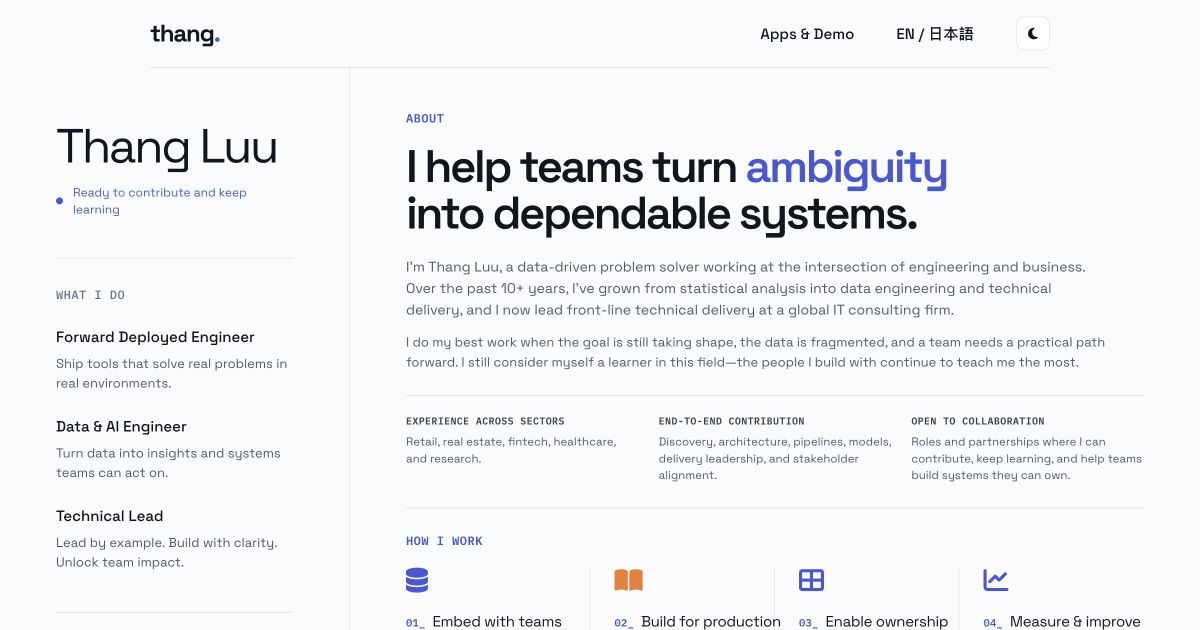
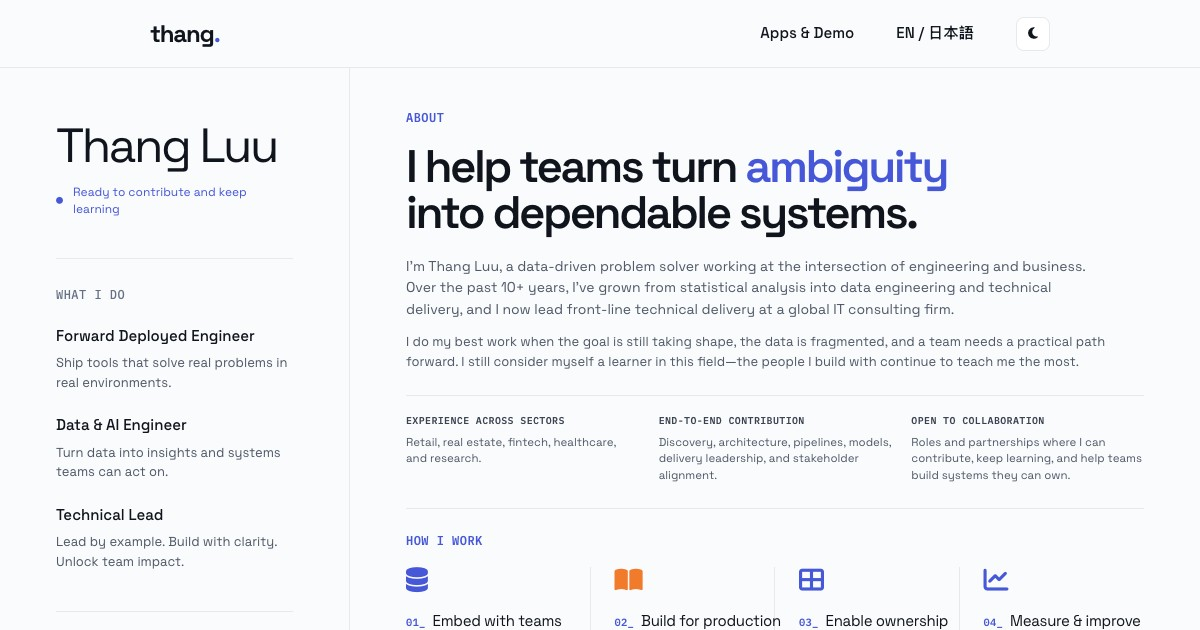
fix(header): keep sticky backdrop full width [skip ci]

diff --git a/apps/index.html b/apps/index.html
@@ -85,16 +85,16 @@
     .theme-button{display:grid;place-items:center;cursor:pointer}.ac-icon i{font-size:1rem}.sr-only{position:absolute;width:1px;height:1px;padding:0;margin:-1px;overflow:hidden;clip:rect(0,0,0,0);white-space:nowrap;border:0}
     .skip-link{position:fixed;left:12px;top:-60px;z-index:99;background:var(--ink);color:var(--bg);padding:10px}.skip-link:focus{top:12px}
     .wrap{width:min(1328px,calc(100% - 96px))}.apps-main{padding-top:54px}.apps-intro{display:grid;grid-template-columns:minmax(0,.8fr) minmax(360px,1.2fr);gap:72px;align-items:end;margin-bottom:40px}.apps-intro .eyebrow{grid-column:1/-1;margin-bottom:-52px}.apps-intro h1{font-size:clamp(42px,4vw,58px);line-height:1.02;letter-spacing:-.045em;margin:0}.apps-intro .lead{margin:0;white-space:normal;font-size:16px;line-height:1.55;max-width:720px}.apps-nav{height:68px;padding:0 56px}.apps-brand{font:700 24px var(--font-sans);letter-spacing:-.05em}.apps-brand span{display:none}.apps-nav nav{gap:38px;color:var(--ink);font-size:15px}.apps-nav nav a:first-child{color:var(--accent)}.theme-button{width:34px;height:34px;border-radius:8px;background:var(--surface)}
-    .apps-nav,.site-foot{width:75%;margin-inline:auto}.apps-nav{padding-inline:0}.site-foot{padding-inline:0}
+    .apps-nav{display:block;width:100%;margin:0;padding:0}.apps-nav-inner{display:flex;align-items:center;justify-content:space-between;width:75%;height:100%;margin-inline:auto}.site-foot{width:100%;margin-inline:0;padding-inline:0}.site-foot-inner{width:75%;margin-inline:auto}
     .catalog-controls{display:flex;align-items:center;margin-bottom:36px;padding:20px 0;border-top:1px solid var(--border);border-bottom:1px solid var(--border)}.filters{margin:0;gap:8px;justify-content:flex-start}.filter{border-radius:5px;padding:9px 13px}.filter.active{background:var(--accent);border-color:var(--accent);color:#fff}
     .apps-cat{margin-top:48px}.apps-cat-head{margin-bottom:0;padding:0 0 13px}.apps-grid{grid-template-columns:repeat(3,minmax(0,1fr));gap:0;border-bottom:1px solid var(--border)}.app-card{min-height:280px;padding:24px;border-radius:0;border-width:1px 1px 0 0}.app-card[hidden]{display:none}.app-card:nth-child(3n){border-right:0}.app-card .ac-icon{border-radius:6px}.app-card .ac-tags{margin-top:18px}.app-card .ac-tag{background:transparent}.app-card .ac-open{margin-top:20px}
     @media(max-width:960px){.apps-intro{grid-template-columns:1fr;gap:20px}.apps-intro .eyebrow{grid-column:auto;margin-bottom:0}.apps-grid{grid-template-columns:repeat(2,minmax(0,1fr))}.app-card:nth-child(3n){border-right:1px solid var(--border)}.app-card:nth-child(2n){border-right:0}}
-    @media(max-width:640px){.apps-nav,.site-foot{width:calc(100% - 32px)}.apps-nav{height:65px;padding:0}.apps-brand{font-size:22px}.apps-nav nav{gap:10px;font-size:13px}.apps-nav nav a{display:block}.theme-button{width:32px;height:32px}.wrap{width:calc(100% - 48px)}.apps-main{padding-top:40px}.apps-intro h1{font-size:40px}.catalog-controls{padding-top:16px}.filters{flex-wrap:nowrap;overflow-x:auto;padding-bottom:5px}.filter{flex:0 0 auto}.apps-grid{grid-template-columns:1fr}.app-card,.app-card:nth-child(3n){border-right:0;min-height:0}}
+    @media(max-width:640px){.apps-nav-inner,.site-foot-inner{width:calc(100% - 32px)}.apps-nav{height:65px;padding:0}.apps-brand{font-size:22px}.apps-nav nav{gap:10px;font-size:13px}.apps-nav nav a{display:block}.theme-button{width:32px;height:32px}.wrap{width:calc(100% - 48px)}.apps-main{padding-top:40px}.apps-intro h1{font-size:40px}.catalog-controls{padding-top:16px}.filters{flex-wrap:nowrap;overflow-x:auto;padding-bottom:5px}.filter{flex:0 0 auto}.apps-grid{grid-template-columns:1fr}.app-card,.app-card:nth-child(3n){border-right:0;min-height:0}}
   </style>
 </head>
 <body>
   <a class="skip-link" href="#main">Skip to apps</a>
-  <header class="apps-nav"><a class="apps-brand" href="/">thang<b>.</b> <span>/ demos</span></a><nav><a href="/apps/" aria-current="page">Apps &amp; Demo</a><a href="/ja/">EN / 日本語</a><button class="theme-button" id="themeToggle" aria-label="Switch to light theme"><i class="fa-solid fa-sun" aria-hidden="true"></i></button></nav></header>
+  <header class="apps-nav"><div class="apps-nav-inner"><a class="apps-brand" href="/">thang<b>.</b> <span>/ demos</span></a><nav><a href="/apps/" aria-current="page">Apps &amp; Demo</a><a href="/ja/">EN / 日本語</a><button class="theme-button" id="themeToggle" aria-label="Switch to light theme"><i class="fa-solid fa-sun" aria-hidden="true"></i></button></nav></div></header>
   <main class="wrap apps-main" id="main">
     <section class="apps-intro">
       <span class="eyebrow">Applied work &amp; experiments</span>
@@ -360,7 +360,7 @@
 
   </main>
 
-  <footer class="site-foot">Crafted with love © 2026 — <span>stay steadfast, stay free</span></footer>
+  <footer class="site-foot"><div class="site-foot-inner">Crafted with love © 2026 — <span>stay steadfast, stay free</span></div></footer>
 
   <script>
     (function () {

diff --git a/css/styles.css b/css/styles.css
@@ -114,7 +114,8 @@
 
 /* Portfolio v3 — split-profile online resume */
 .resume-home{background:var(--bg)}
-.resume-home .home-header{width:75%;margin-inline:auto;padding-inline:0}
+.resume-home .home-header{display:block;width:100%;margin:0;padding:0}
+.resume-home .header-inner{position:relative;display:flex;align-items:center;justify-content:space-between;width:75%;height:100%;margin-inline:auto}
 .resume-home .resume-layout{display:grid;grid-template-columns:350px minmax(0,1fr);max-width:1600px;margin:0 auto;border-bottom:1px solid var(--border)}
 .resume-home .resume-kicker{margin:0;color:var(--accent);font:600 12px/1.4 var(--font-mono);letter-spacing:.04em;text-transform:uppercase}
 .resume-home .resume-profile{padding:54px 56px 44px;border-right:1px solid var(--border)}
@@ -152,7 +153,8 @@
 .resume-home .project-group,.resume-home .resume-project{min-width:0;padding:14px 20px;border-right:1px solid var(--border)}.resume-home .project-group{display:flex;align-items:flex-start;gap:14px;padding-left:0}.resume-home .project-group>i{margin-top:3px;color:var(--accent);font-size:20px}.resume-home .language-row .project-group>i{color:#f27a2b}
 .resume-home .project-group h3,.resume-home .resume-project h3{margin:0;font-size:13px;font-weight:500}.resume-home .project-group p,.resume-home .resume-project p{margin:4px 0 0;color:var(--body);font-size:10.5px;line-height:1.4}
 .resume-home .resume-project{position:relative;padding-right:38px;transition:background .2s}.resume-home .resume-project:hover{background:var(--surface);color:var(--ink)}.resume-home .resume-project>i{position:absolute;right:18px;top:22px;font-size:11px;transition:transform .2s}.resume-home .resume-project:hover>i{transform:translateX(3px)}
-.resume-home footer{width:75%;max-width:1200px;margin:0 auto;padding-inline:0}
+.resume-home footer{width:100%;max-width:none;margin:0;padding:20px 0}
+.resume-home .footer-inner{width:75%;margin-inline:auto}
 @media(max-width:1100px){
   .resume-home .resume-layout{grid-template-columns:280px minmax(0,1fr)}
   .resume-home .resume-profile{padding-inline:34px}.resume-home .resume-content{padding-inline:38px}
@@ -160,7 +162,7 @@
   .resume-home .project-row{grid-template-columns:150px repeat(3,minmax(0,1fr))}.resume-home .project-group,.resume-home .resume-project{padding-inline:14px}.resume-home .resume-project{padding-right:30px}
 }
 @media(max-width:780px){
-  .resume-home .home-header,.resume-home footer{width:calc(100% - 32px)}
+  .resume-home .header-inner,.resume-home .footer-inner{width:calc(100% - 32px)}
   .resume-home .resume-layout{grid-template-columns:1fr}
   .resume-home .resume-profile{display:grid;grid-template-columns:1fr 1fr;gap:22px 30px;padding:38px var(--home-pad);border-right:0;border-bottom:1px solid var(--border)}
   .resume-home .resume-profile>h1{grid-column:1/-1;margin-block:0}

diff --git a/index.html b/index.html
@@ -19,19 +19,21 @@
   <link href="https://use.fontawesome.com/releases/v6.4.2/css/all.css" rel="stylesheet">
   <link rel="stylesheet" href="css/reset.css">
   <link rel="stylesheet" href="css/tokens.css?v=20260713e">
-  <link rel="stylesheet" href="css/styles.css?v=20260714c">
+  <link rel="stylesheet" href="css/styles.css?v=20260714d">
   <script>document.documentElement.dataset.theme=localStorage.theme||(matchMedia('(prefers-color-scheme:dark)').matches?'dark':'light')</script>
 </head>
 <body class="home-v2 resume-home">
   <a class="skip" href="#main">Skip to content</a>
   <header class="home-header" id="top">
-    <a class="logo" href="#top" aria-label="Thang Luu home">thang<span>.</span></a>
-    <button class="menu" aria-label="Open menu" aria-expanded="false" aria-controls="primaryNav">Menu</button>
-    <nav id="primaryNav" aria-label="Primary navigation">
-      <a href="apps/">Apps &amp; Demo</a>
-      <a href="ja/" class="lang-link">EN / 日本語</a>
-      <button id="themeToggle" class="theme" aria-label="Switch to light theme"><i class="fa-solid fa-sun" aria-hidden="true"></i></button>
-    </nav>
+    <div class="header-inner">
+      <a class="logo" href="#top" aria-label="Thang Luu home">thang<span>.</span></a>
+      <button class="menu" aria-label="Open menu" aria-expanded="false" aria-controls="primaryNav">Menu</button>
+      <nav id="primaryNav" aria-label="Primary navigation">
+        <a href="apps/">Apps &amp; Demo</a>
+        <a href="ja/" class="lang-link">EN / 日本語</a>
+        <button id="themeToggle" class="theme" aria-label="Switch to light theme"><i class="fa-solid fa-sun" aria-hidden="true"></i></button>
+      </nav>
+    </div>
   </header>
 
   <main id="main" class="resume-layout">
@@ -107,7 +109,7 @@
     </div>
   </main>
 
-  <footer>Crafted with love © 2026 — <span>stay steadfast, stay free</span></footer>
+  <footer><div class="footer-inner">Crafted with love © 2026 — <span>stay steadfast, stay free</span></div></footer>
   <script src="js/main.js?v=20260713f"></script>
 </body>
 </html>

diff --git a/design-qa.md b/design-qa.md
@@ -9,6 +9,8 @@
 - Apps implementation: `/Users/thang/Documents/thangldw.github.io/audit/resume-v3/apps-header-75-desktop.png`
 - Apps comparison: `/Users/thang/Documents/thangldw.github.io/audit/resume-v3/apps-copy-comparison.jpg`
 - Header-width comparisons: `/Users/thang/Documents/thangldw.github.io/audit/resume-v3/home-header-75-comparison.jpg` and `/Users/thang/Documents/thangldw.github.io/audit/resume-v3/apps-header-75-comparison.jpg`
+- Reported sticky-header defect: `/Users/thang/Documents/thangldw.github.io/audit/resume-v3/user-header-overlap-bug.png`
+- Sticky-header fix evidence: `/Users/thang/Documents/thangldw.github.io/audit/resume-v3/home-header-inner-75-scrolled.png` and `/Users/thang/Documents/thangldw.github.io/audit/resume-v3/header-overlap-fix-comparison.jpg`
 - Responsive evidence: `/Users/thang/Documents/thangldw.github.io/audit/resume-v3/home-four-step-laptop-1024.png`, `/Users/thang/Documents/thangldw.github.io/audit/resume-v3/home-header-75-mobile-390.png`, and `/Users/thang/Documents/thangldw.github.io/audit/resume-v3/apps-header-75-mobile-390.png`
 - Viewports: 1440 × 1024 desktop, 1024 × 900 laptop, and 390 × 844 mobile
 - State: light theme; Home default; Apps All, Technical, and Language filters
@@ -21,12 +23,12 @@
 - `How I Work` now covers Embed, Build, Enable, and Measure/Improve. All four numbered titles render as single-line phrases at 1440px, 1024px, and 390px.
 - Apps removes the unused search path and replaces catalog-first copy with a professional description of applied work, feedback, and collaboration. Technical and Language remain durable top-level filters.
 - The RAGOps card now says `Open RAGOps` and points directly to `https://thangldw.github.io/ragops/`.
-- Home and Apps header/footer bands measure exactly 1080px in a 1440px viewport (75%) and are centered at x=180px. Mobile uses 358px in a 390px viewport to preserve usable navigation space.
+- Home and Apps sticky header backdrops now span the full 1440px viewport, while their inner content and footer content measure exactly 1080px (75%) and are centered at x=180px. Mobile inner content uses 358px in a 390px viewport to preserve usable navigation space.
 
 ## Required fidelity surfaces
 
 - Fonts and typography: Space Grotesk and IBM Plex Mono remain consistent. The revised headline retains the selected concept's two-line scale and accent treatment. All method titles avoid wrapping at tested breakpoints.
-- Spacing and layout rhythm: Home uses four equal method columns on desktop, a 2×2 laptop grid, and a single mobile column. Apps gains a cleaner filter-only control row after search removal. Header/footer widths now follow the requested centered 75% desktop measure with a mobile usability override.
+- Spacing and layout rhythm: Home uses four equal method columns on desktop, a 2×2 laptop grid, and a single mobile column. Apps gains a cleaner filter-only control row after search removal. Header/footer content follows the requested centered 75% desktop measure, while the sticky backdrop remains full-width so scrolled content cannot overlap the logo.
 - Colors and visual tokens: the established neutral, indigo, and orange system is unchanged. Language bullets use one subtle indigo because they do not represent different semantic categories.
 - Image quality and asset fidelity: no photographic assets are required; Font Awesome provides all interface icons. Social previews are real 1200 × 630 browser captures.
 - Copy and content: new claims are grounded in prior portfolio copy. The tone emphasizes contribution, learning, team ownership, feedback, and collaboration without inventing outcomes or proficiency levels.
@@ -36,7 +38,7 @@
 - Home: four method items; all titles one line; no location text; no horizontal overflow at 1440px, 1024px, or 390px.
 - Apps: no search control; All shows 15, Technical shows 3, and Language shows 12; filter URL state and legacy category aliases remain supported.
 - RAGOps accessible link target: `https://thangldw.github.io/ragops/`.
-- Computed Home and Apps desktop header/footer ratios: `0.75`; mobile widths: `358px` at a `390px` viewport.
+- Computed Home and Apps desktop outer header widths: `1440px`; inner header/footer ratios: `0.75`; mobile inner widths: `358px` at a `390px` viewport.
 - Browser console errors: none.
 - Static validation covers 32 HTML pages, 10 redirects, 18 sitemap URLs, social metadata, and all local references.
 
@@ -49,6 +51,7 @@
 5. Post-fix evidence: desktop, laptop, and mobile browser captures show no overflow; filter counts, URL state, and console checks pass.
 6. Width refinement: centered header/footer bands were reduced to 75% on Home and Apps. Computed dimensions, mobile overrides, visual comparisons, and console checks pass.
 7. Production cache check: Apps loaded the new width immediately; Home initially retained the prior cached stylesheet. The Home stylesheet query was advanced to `20260714c` so GitHub Pages clients fetch the verified 75% rule.
+8. Sticky-header correction: the user-reported scroll state revealed that narrowing the sticky element also narrowed its opaque backdrop. Home and Apps now keep a full-width sticky surface with a centered 75% inner container; the same scrolled state, 1440px desktop, and 390px mobile checks pass with zero overflow or console errors.
 
 ## Follow-up polish
 

diff --git a/audit/release-2026-07-13/audit-report.md b/audit/release-2026-07-13/audit-report.md
@@ -25,6 +25,7 @@ The documented release backlog is complete. Pipeline history persists, long voca
 15. Annotated Home feedback is implemented: the duplicated profile kicker and horizontal tags were removed; `Roles`, `Languages`, and `Past Projects` became `What I Do`, `Working Languages`, and `Selected Work`; Tiếng Việt and 中文 were added. About now carries only non-duplicative industry, delivery, and maintainability context. Desktop/mobile checks passed without overflow or console errors.
 16. Home copy now draws on the earlier Japanese portfolio narrative: 10+ years across data analysis, engineering, and technical delivery; a learner-first collaboration stance; and openness to roles and partnerships. `How I Work` now adds `04_Measure & improve`, with all four titles kept to one line. Apps now presents a growing body of practical work, removes the search control, retains its three shareable filters, and routes RAGOps directly to `https://thangldw.github.io/ragops/`. Desktop, laptop, and mobile checks passed without overflow or console errors.
 17. Home and Apps header/footer bands now occupy exactly 75% of the desktop viewport and remain centered. At 390px they expand to 358px (`100% - 32px`) so navigation and controls remain usable. Computed-width checks passed on both routes with zero overflow and console errors.
+18. The user-reported sticky-header overlap is fixed on Home and Apps. The backdrop now remains full-width while only the inner navigation/footer content uses the centered 75% measure. At 1440px the outer header is 1440px and its inner row is 1080px; at 390px the inner row is 358px. The reproduced scrolled state, desktop/mobile overflow checks, and console checks pass.
 
 ## Screenshots
 
@@ -53,6 +54,8 @@ The documented release backlog is complete. Pipeline history persists, long voca
 ![Home 75% header width](../resume-v3/home-header-75-comparison.jpg)
 
 ![Apps 75% header width](../resume-v3/apps-header-75-comparison.jpg)
+
+![Sticky header overlap fix](../resume-v3/header-overlap-fix-comparison.jpg)
 
 ## Evidence limits
 

diff --git a/NEXT-STEPS.md b/NEXT-STEPS.md
@@ -50,6 +50,7 @@ Updated: 2026-07-13
 
 ## Post-release improvements
 
+- [x] Fix the scrolled-header overlap by keeping the sticky backdrop full-width and constraining only Home/Apps header and footer content to the requested 75% desktop measure.
 - [x] Center Home and Apps header/footer bands at exactly 75% of the desktop viewport while preserving near-full-width mobile controls and navigation.
 - [x] Rewrite Home and Apps copy from prior portfolio evidence with a professional, collaborative tone; expand How I Work to four stages, remove Apps search, and route RAGOps directly to its showcase.
 - [x] Refine the Home resume from annotated feedback: remove duplicated profile labels/tags, rename the sidebar and project headings, expand working languages, and reorganize About around non-duplicative delivery context.
